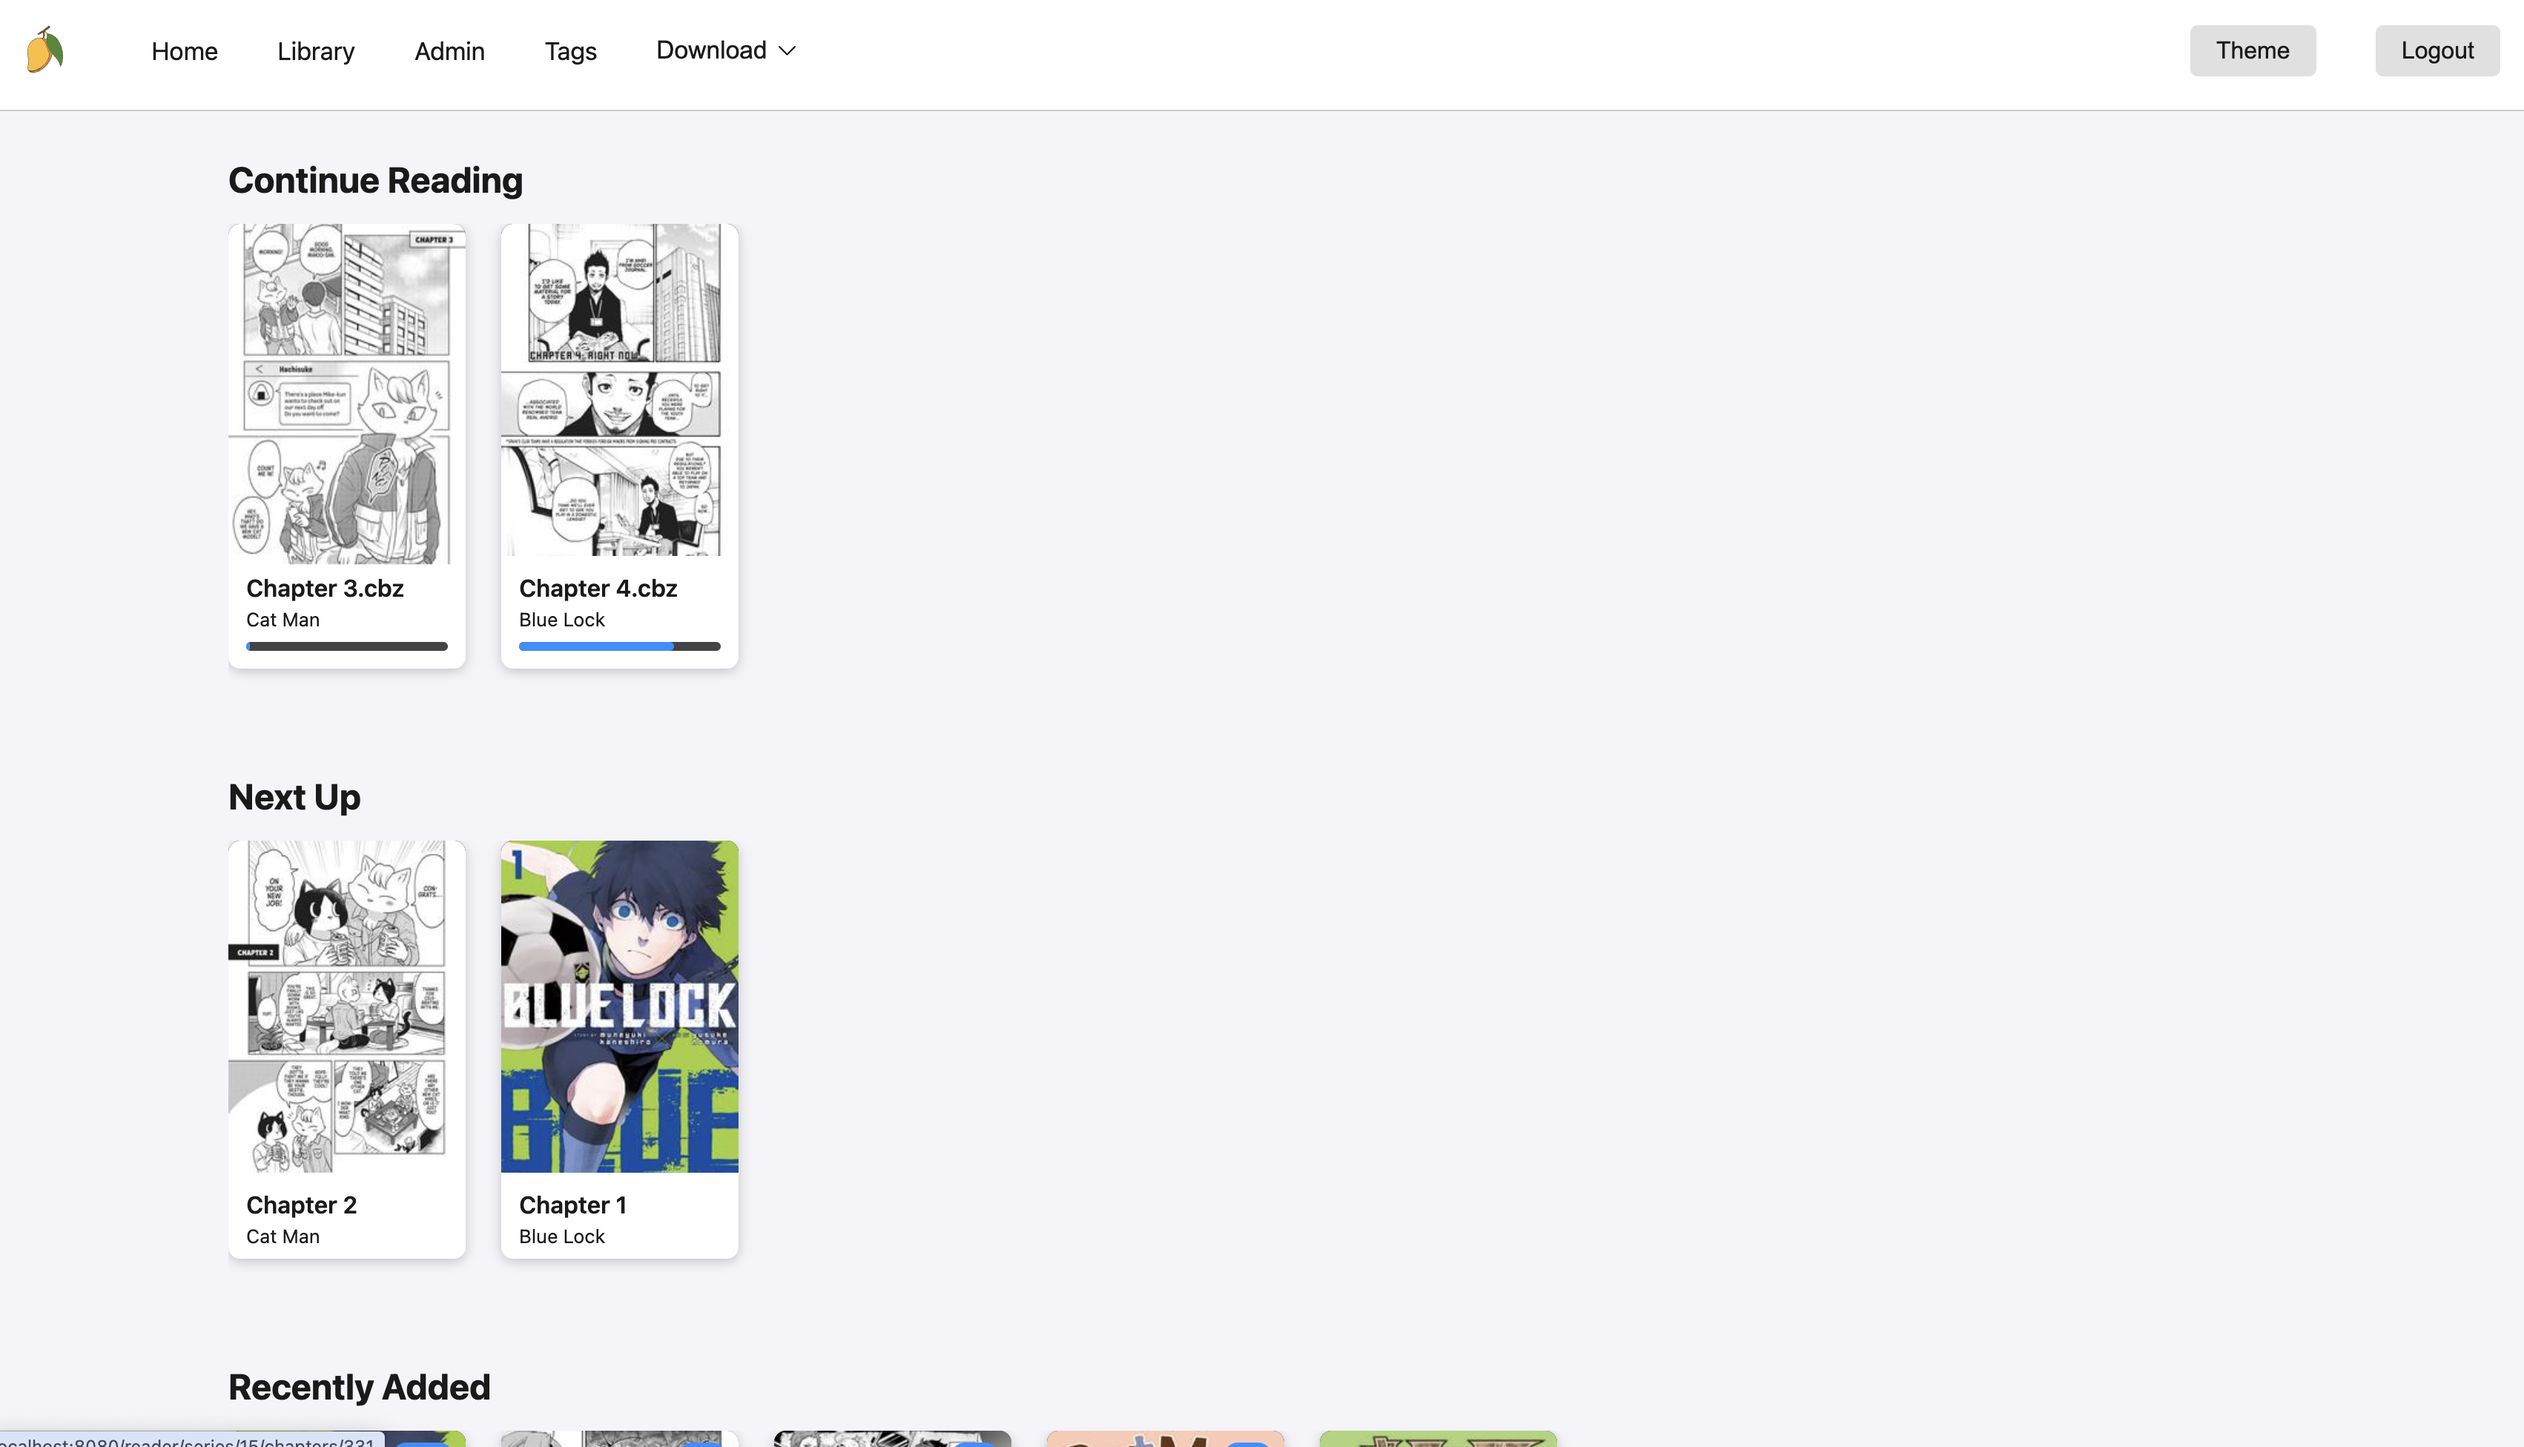
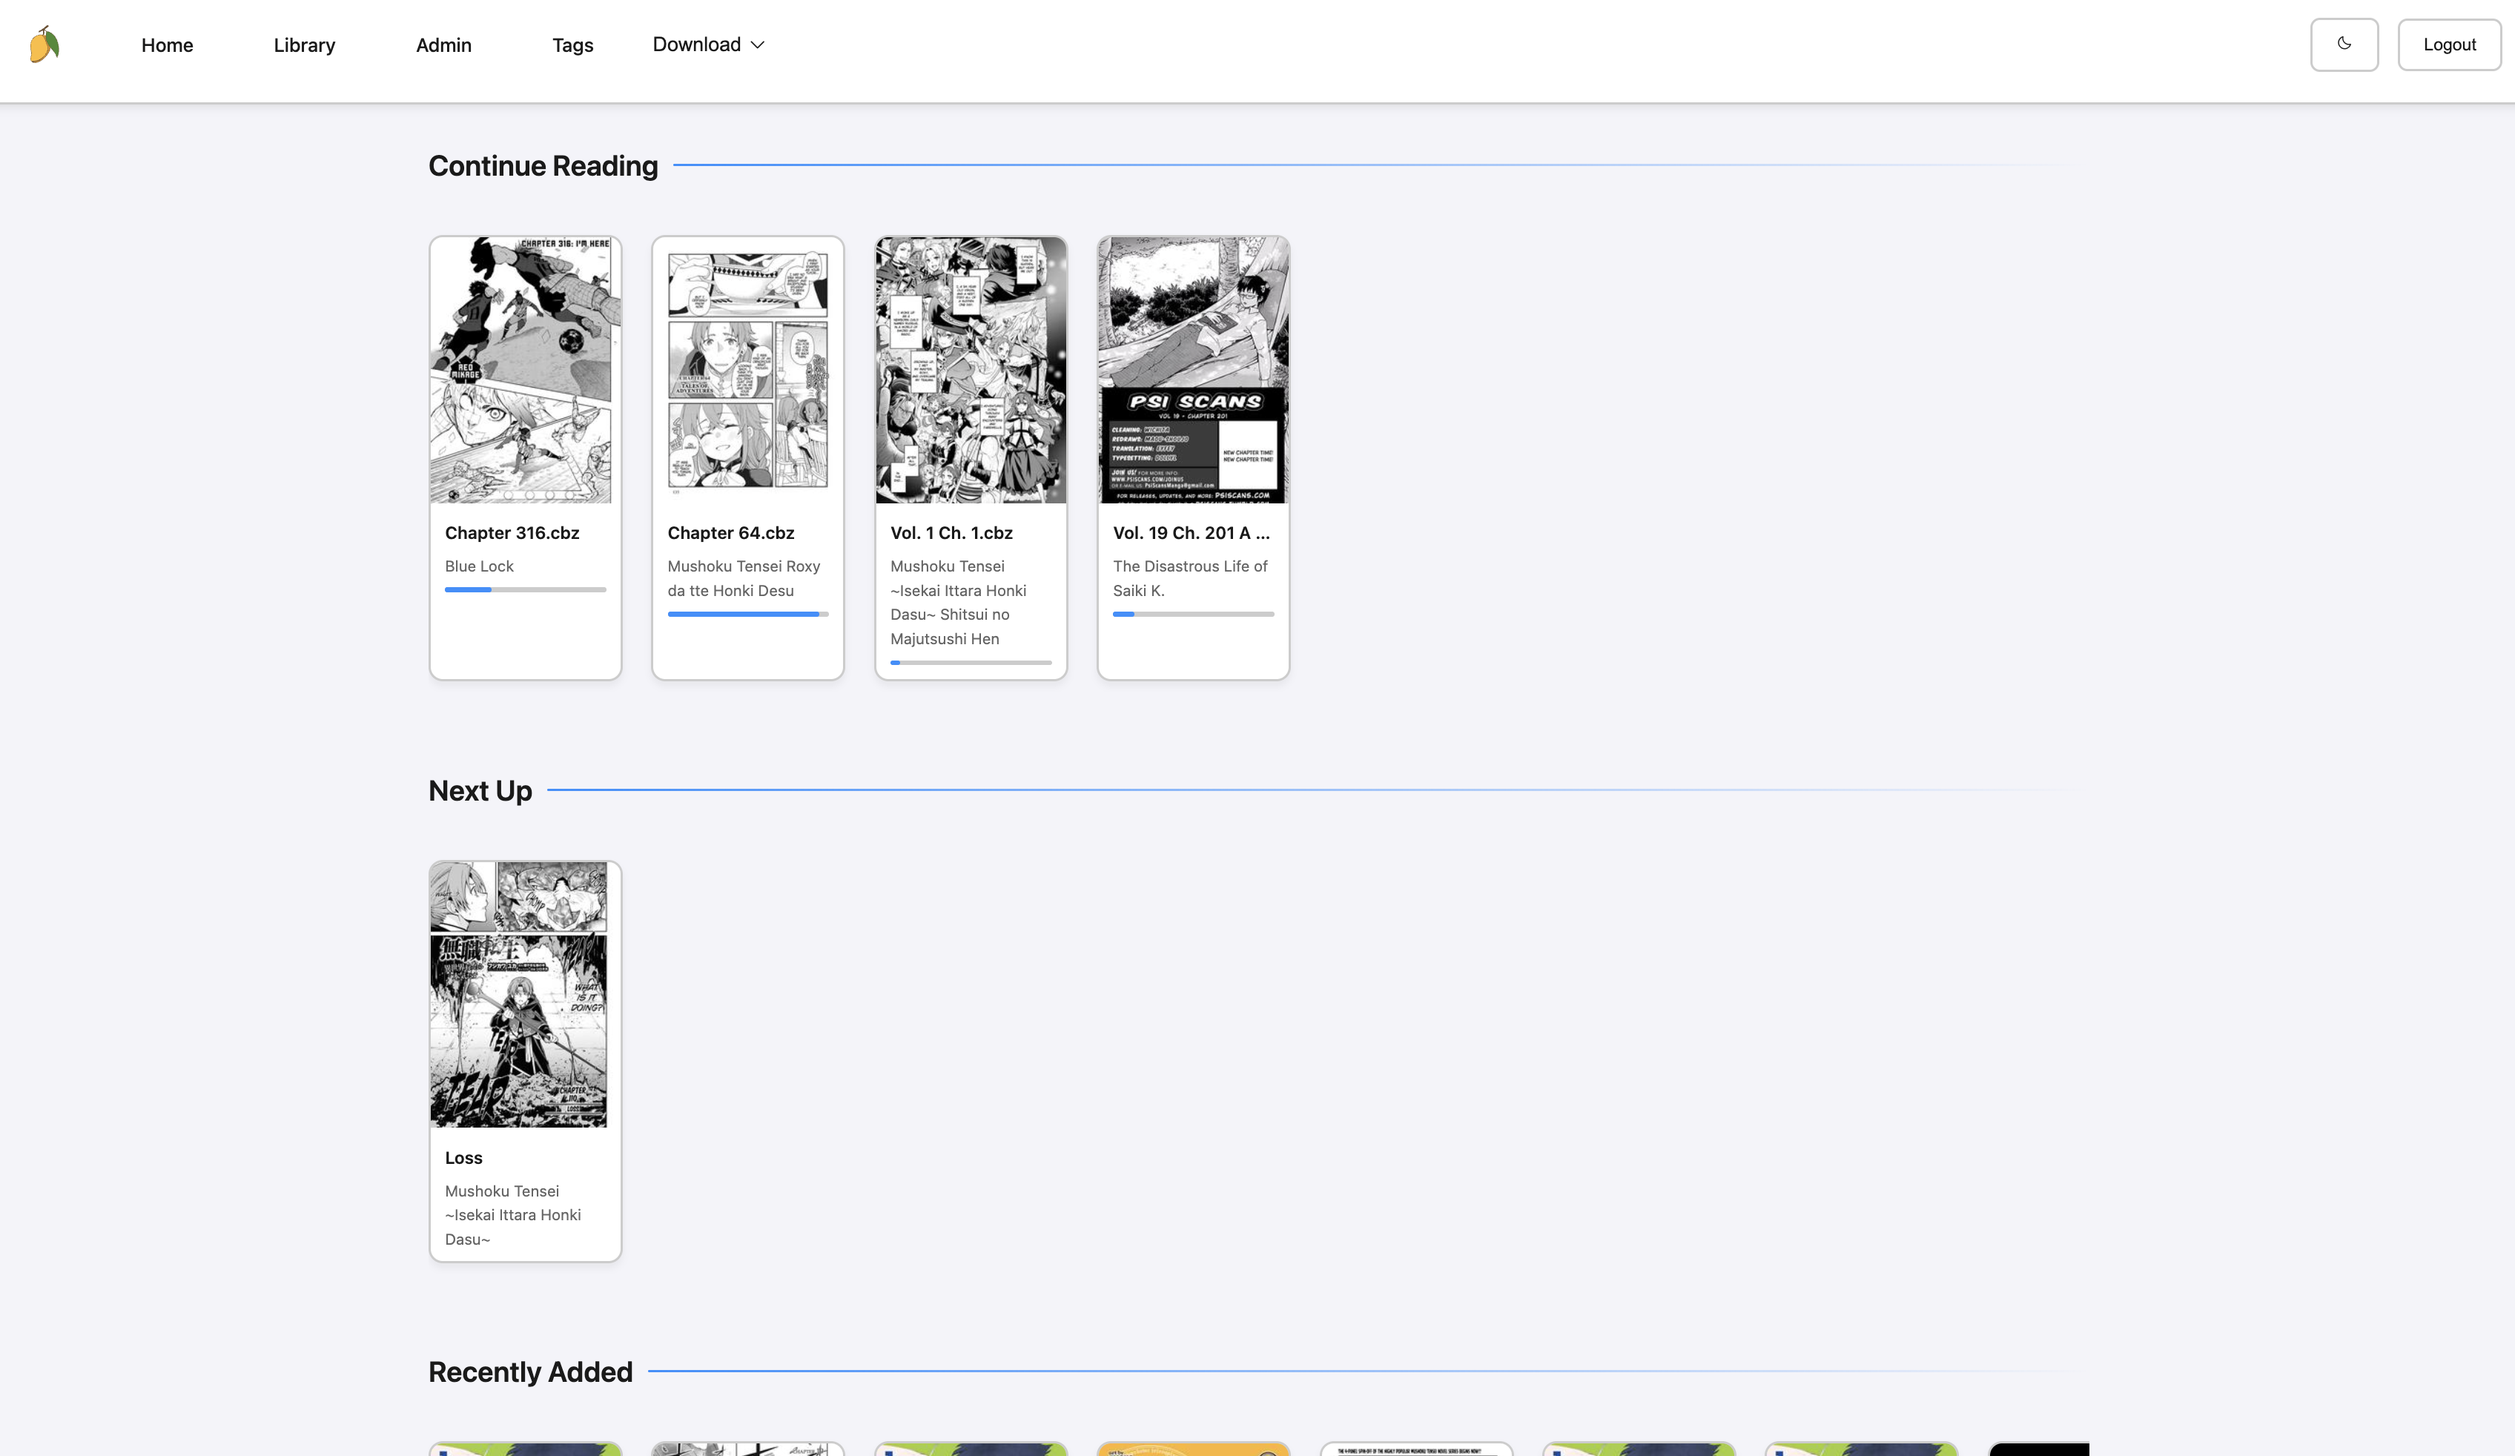
update screenshots

Changed region(s): [[0.0, 0.0, 1.0, 0.4688], [0.0938, 0.5312, 0.3125, 0.875], [0.0, 0.9375, 0.8438, 1.0]]

diff --git a/README.md b/README.md
@@ -18,9 +18,10 @@ A self-hosted manga server and web reader written in Go. This is a modern rewrit
 
 ## Screenshots
 
-![Home page](screenshots/home.png)
+![Home page](screenshots/home_light.png)
 ![Library](screenshots/library.png)
-![Light theme](screenshots/home_light.png)
+![Admin](screenshots/admin.png)
+![Dark theme](screenshots/home_dark.png)
 
 ## 🚀 Installation & Usage
 
@@ -29,11 +30,6 @@ There are two primary ways to run Mango-Go: via Docker (recommended for producti
 ### 🐳 Option 1: Docker
 
 The recommended way to run Mango-Go in production is using Docker and Docker Compose.
-
-#### Prerequisites
-
-* **Docker**: [Install Docker](https://docs.docker.com/get-docker/)
-* **Docker Compose**: [Install Docker Compose](https://docs.docker.com/compose/install/)
 
 #### Quick Start
 
@@ -77,7 +73,11 @@ The recommended way to run Mango-Go in production is using Docker and Docker Com
 4. **Access Mango-Go:**
    Open your web browser and navigate to `http://localhost:8080`. Log in with the admin credentials and change the password immediately via the Admin > User Management page.
 
-### Option 2: Standalone Binary
+## Option 2: Use binary from release
+
+Go to [Releases](https://github.com/vrsandeep/mango-go/releases) and download a binary of your OS. Follow Configure section from next option.
+
+### Option 3: Build Binary
 
 The application can be compiled into a single, portable binary file that contains all necessary web assets and migrations.
 
@@ -126,7 +126,6 @@ manga/
 
 - **Comic Book Archives**: `.cbz`, `.cbr`, `.cb7`
 - **Compressed Archives**: `.zip`, `.rar`, `.7z`
-- **Individual Images**: `.jpg`, `.jpeg`, `.png`, `.webp`
 
 ## Configuration
 
@@ -201,11 +200,8 @@ docker-compose logs
 ## Support
 
 - 🐞 **Issues**: Report bugs and request features on [GitHub Issues](https://github.com/vrsandeep/mango-go/issues)
-- ✨ **Documentation**: For contribution guidelines, see [Development.md](Development.md)
+- ✨ **Documentation**: For contribution guidelines, see [CONTRIBUTING.md](CONTRIBUTING.md)
 
-## License
-
-This project is licensed under the MIT License - see the [LICENSE](LICENSE) file for details.
 
 ## Acknowledgments
 
